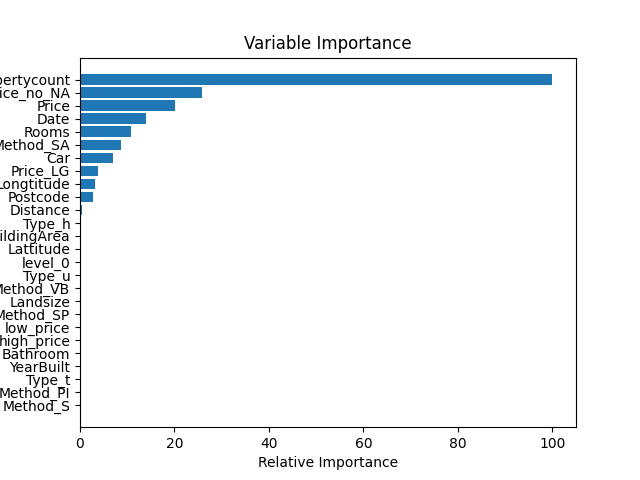
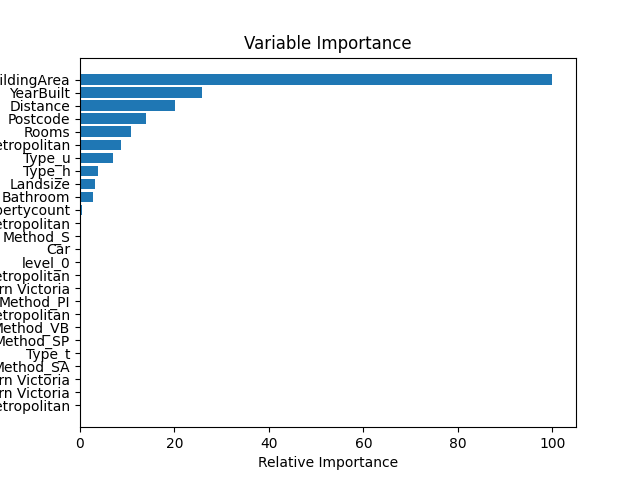
Added tuning class

Changed region(s): [[0.0, 0.1562, 0.125, 0.5312], [0.0, 0.5625, 0.125, 0.875]]

diff --git a/tuning.py b/tuning.py
@@ -1,0 +1,114 @@
+
+class RunModels:
+
+    def __init__(self, this_df):
+
+        print()
+        print("****************************************************************")
+        print("@Modelling | Start")
+        print("****************************************************************")
+
+
+    def train_model(self, df):
+        from sklearn.model_selection import KFold
+        from sklearn.linear_model import LinearRegression
+        from sklearn.linear_model import Lasso
+        from sklearn.linear_model import ElasticNet
+        from sklearn.tree import DecisionTreeRegressor
+        from sklearn.neighbors import KNeighborsRegressor
+        from sklearn.ensemble import AdaBoostRegressor
+        from sklearn.ensemble import GradientBoostingRegressor
+        from sklearn.ensemble import RandomForestRegressor
+        from sklearn.ensemble import ExtraTreesRegressor
+        from sklearn.metrics import mean_squared_error
+
+        from sklearn.model_selection import train_test_split
+        from sklearn.model_selection import cross_val_score
+        from sklearn import linear_model
+        import numpy as np
+        import matplotlib.pyplot as plt
+        import operator
+
+        # drop_list = ["Price_LG", "Date"]
+        # X = df.drop(drop_list, axis=1)
+
+        # X = df[['Rooms', 'Distance', 'Postcode', 'Landsize', 'BuildingArea', 'YearBuilt']]
+        drop_list = ['Price', 'Price_LG', 'high_price', 'low_price', 'Price_no_NA', 'Date', 'Lattitude',
+                     'Longtitude']
+        X = df.drop(drop_list, axis=1)
+        Y = df["Price_LG"]
+        print(X.shape)
+        print(Y.shape)
+
+        scaler = self.MinMaxScaler().fit(X)
+        scaled_X = scaler.transform(X)
+
+        seed = 9
+        test_size = 0.20
+
+        X_train, X_test, Y_train, Y_test = train_test_split(scaled_X, Y, test_size=test_size, random_state=seed)
+
+        print(X_train.shape)
+        print(X_test.shape)
+        print(Y_train.shape)
+        print(Y_test.shape)
+
+        # user variables to tune
+        folds = 10
+        metric = "neg_mean_squared_error"
+
+        # hold different regression models in a single dictionary
+        models = {}
+        # models["Linear"] = LinearRegression()
+        # models["Lasso"] = Lasso()
+        # models["ElasticNet"] = ElasticNet()
+        # models["KNN"] = KNeighborsRegressor()
+        # models["DecisionTree"] = DecisionTreeRegressor()
+        # models["AdaBoost"] = AdaBoostRegressor()
+        models["GradientBoost"] = GradientBoostingRegressor()
+        models["RandomForest"] = RandomForestRegressor()
+        # models["ExtraTrees"] = ExtraTreesRegressor()
+
+        # 10-fold cross validation for each model
+        model_results = []
+        model_names = []
+        rate_scores = {}
+
+        for model_name in models:
+            model = models[model_name]
+            #   ValueError: Setting a random_state has no effect since shuffle is False.
+            #   You should leave random_state to its default (None), or set shuffle=True.
+            k_fold = KFold(n_splits=folds, random_state=seed, shuffle=True)
+
+            lasso = linear_model.Lasso()
+            results = cross_val_score(model, X_train, Y_train, cv=k_fold, scoring=metric)
+
+            rate_scores[model_name] = round(results.mean(), 3)
+            model_results.append(results)
+            model_names.append(model_name)
+            print("{}: {}, {}".format(model_name, round(results.mean(), 3), round(results.std(), 3)))
+
+        print(sorted(rate_scores.items(), key=operator.itemgetter(1), reverse=True))
+
+        # create and fit the best regression model
+        best_model = GradientBoostingRegressor(random_state=seed)
+        best_model.fit(X_train, Y_train)
+
+        # make predictions using the model
+        predictions = best_model.predict(X_test)
+        print("[INFO] MSE : {}".format(round(mean_squared_error(Y_test, predictions), 3)))
+
+        # plot model's feature importance
+        feature_importance = best_model.feature_importances_
+        feature_importance = 100.0 * (feature_importance / feature_importance.max())
+        sorted_idx = np.argsort(feature_importance)
+        pos = np.arange(sorted_idx.shape[0]) + .5
+        plt.barh(pos, feature_importance[sorted_idx], align='center')
+        plt.yticks(pos, X.columns.values[sorted_idx])
+        plt.xlabel('Relative Importance')
+        plt.title('Variable Importance')
+        plt.savefig("feature_importance.png")
+        plt.clf()
+        plt.close()
+
+
